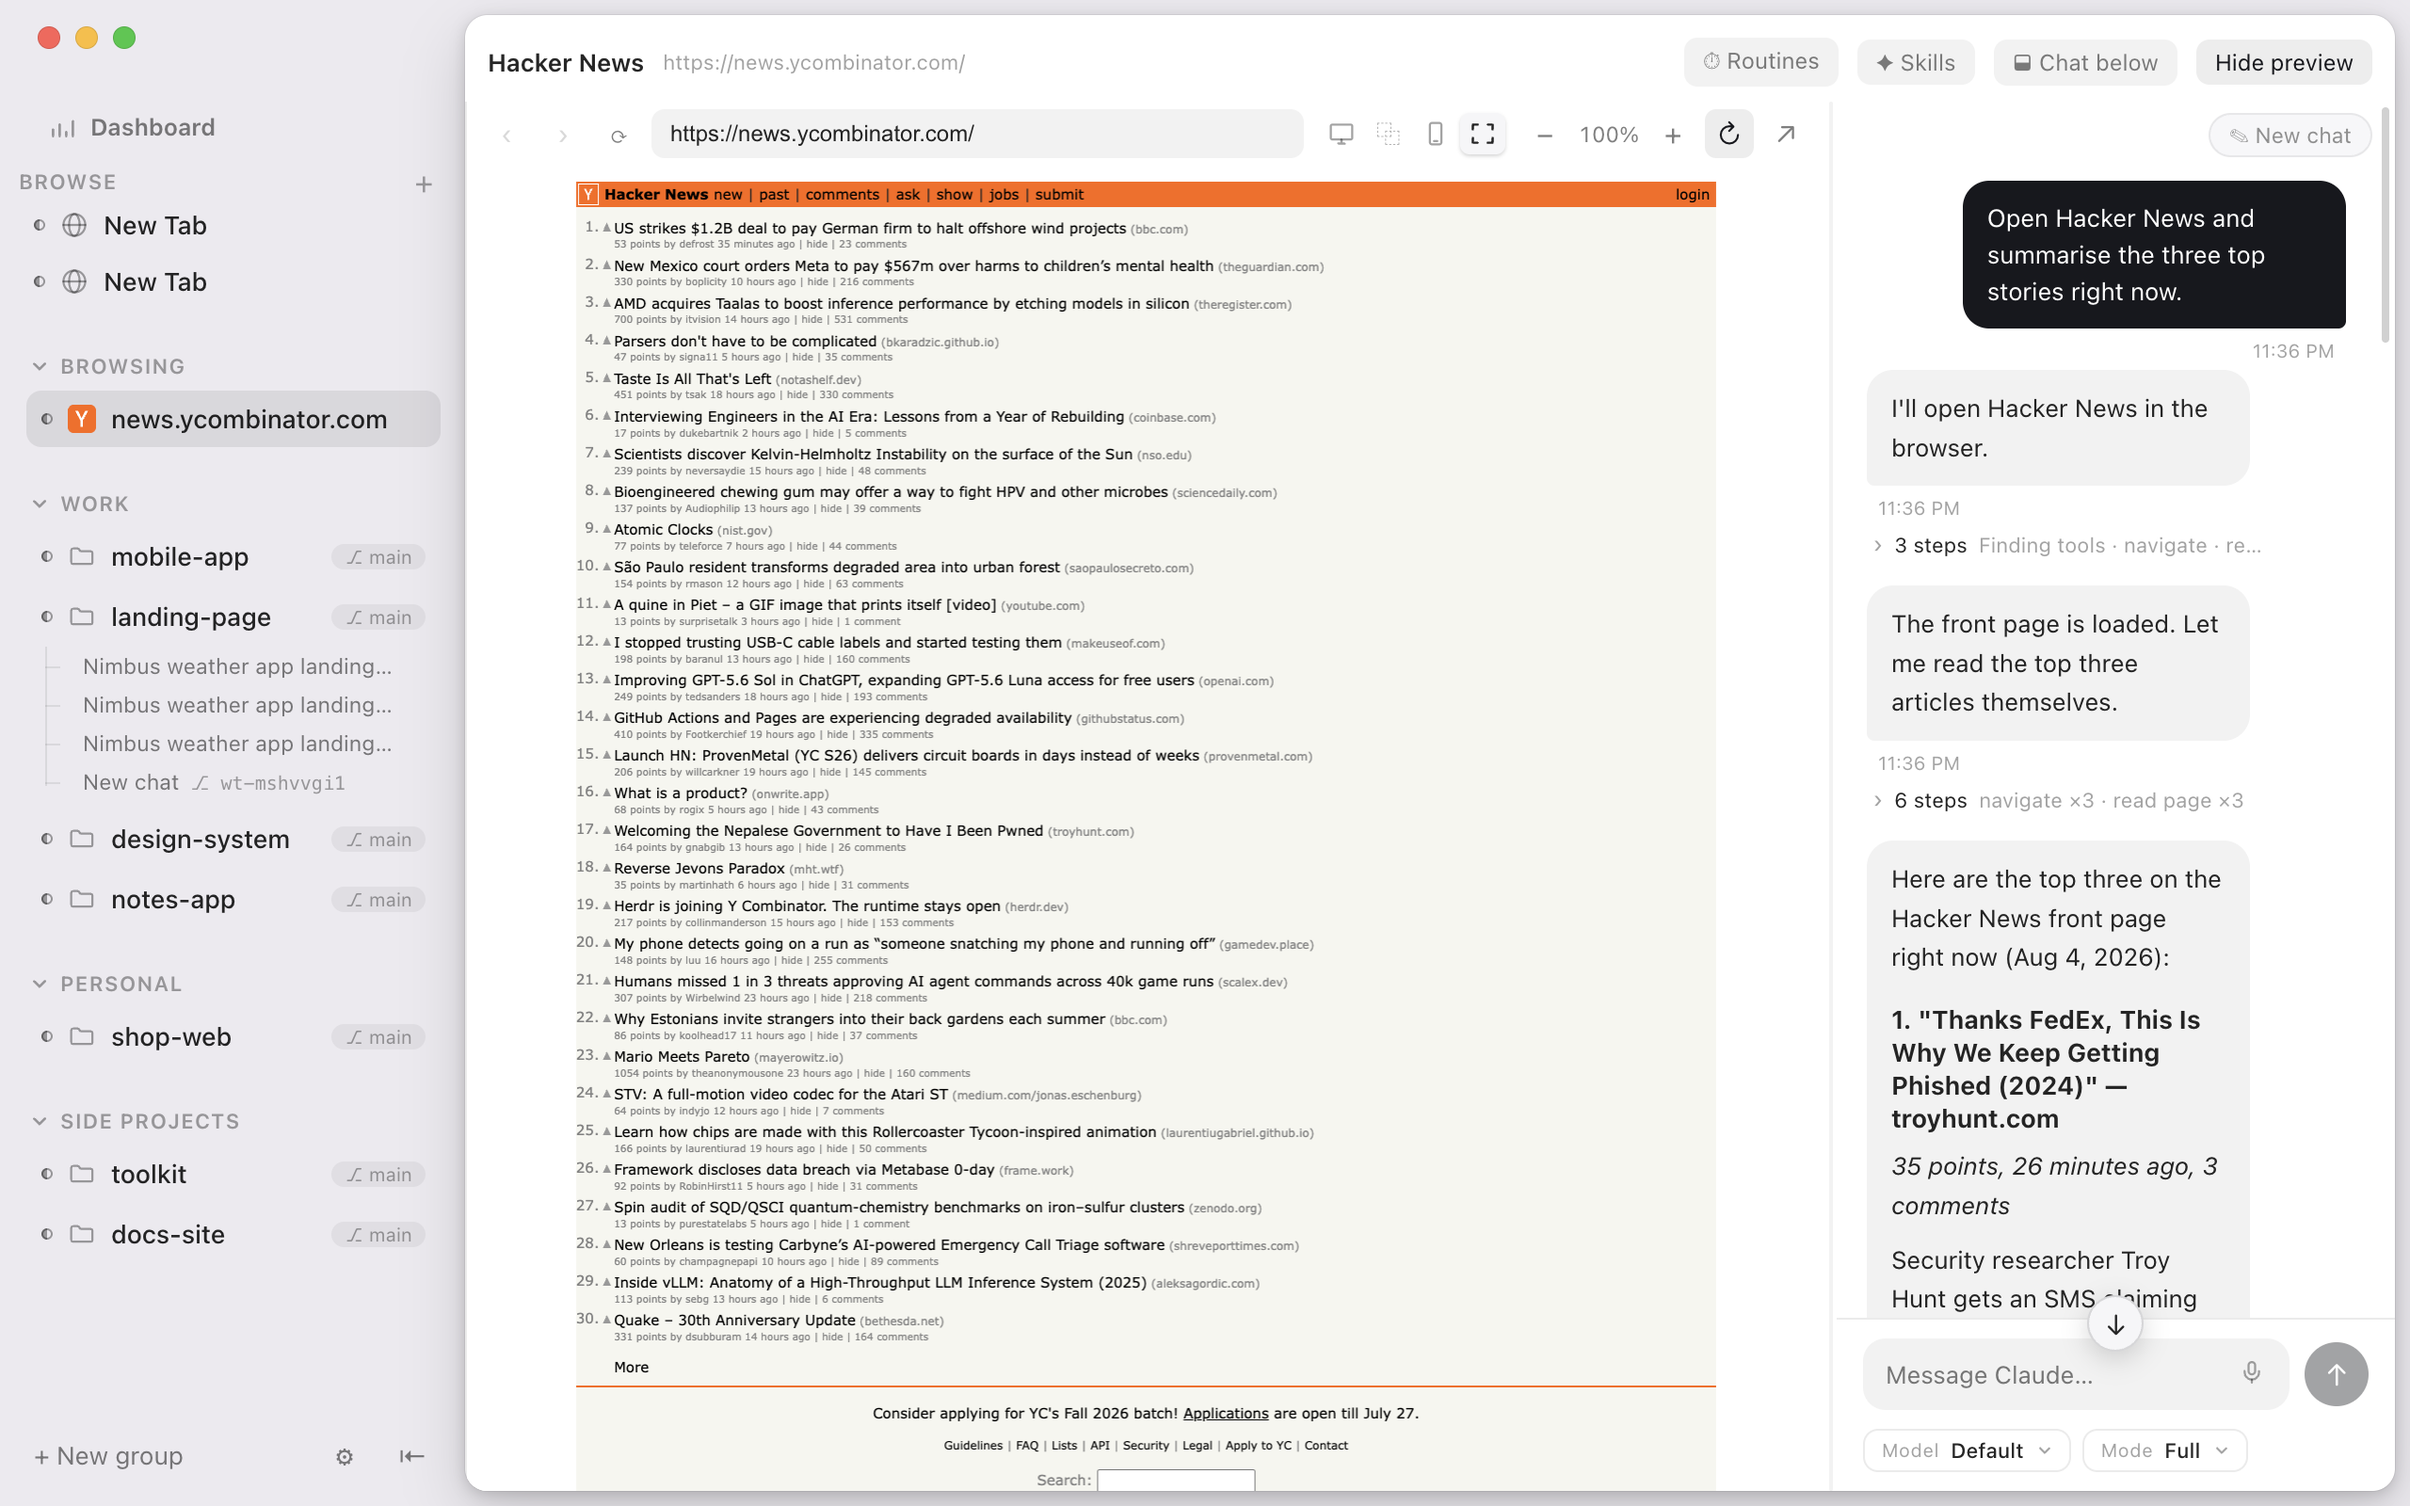
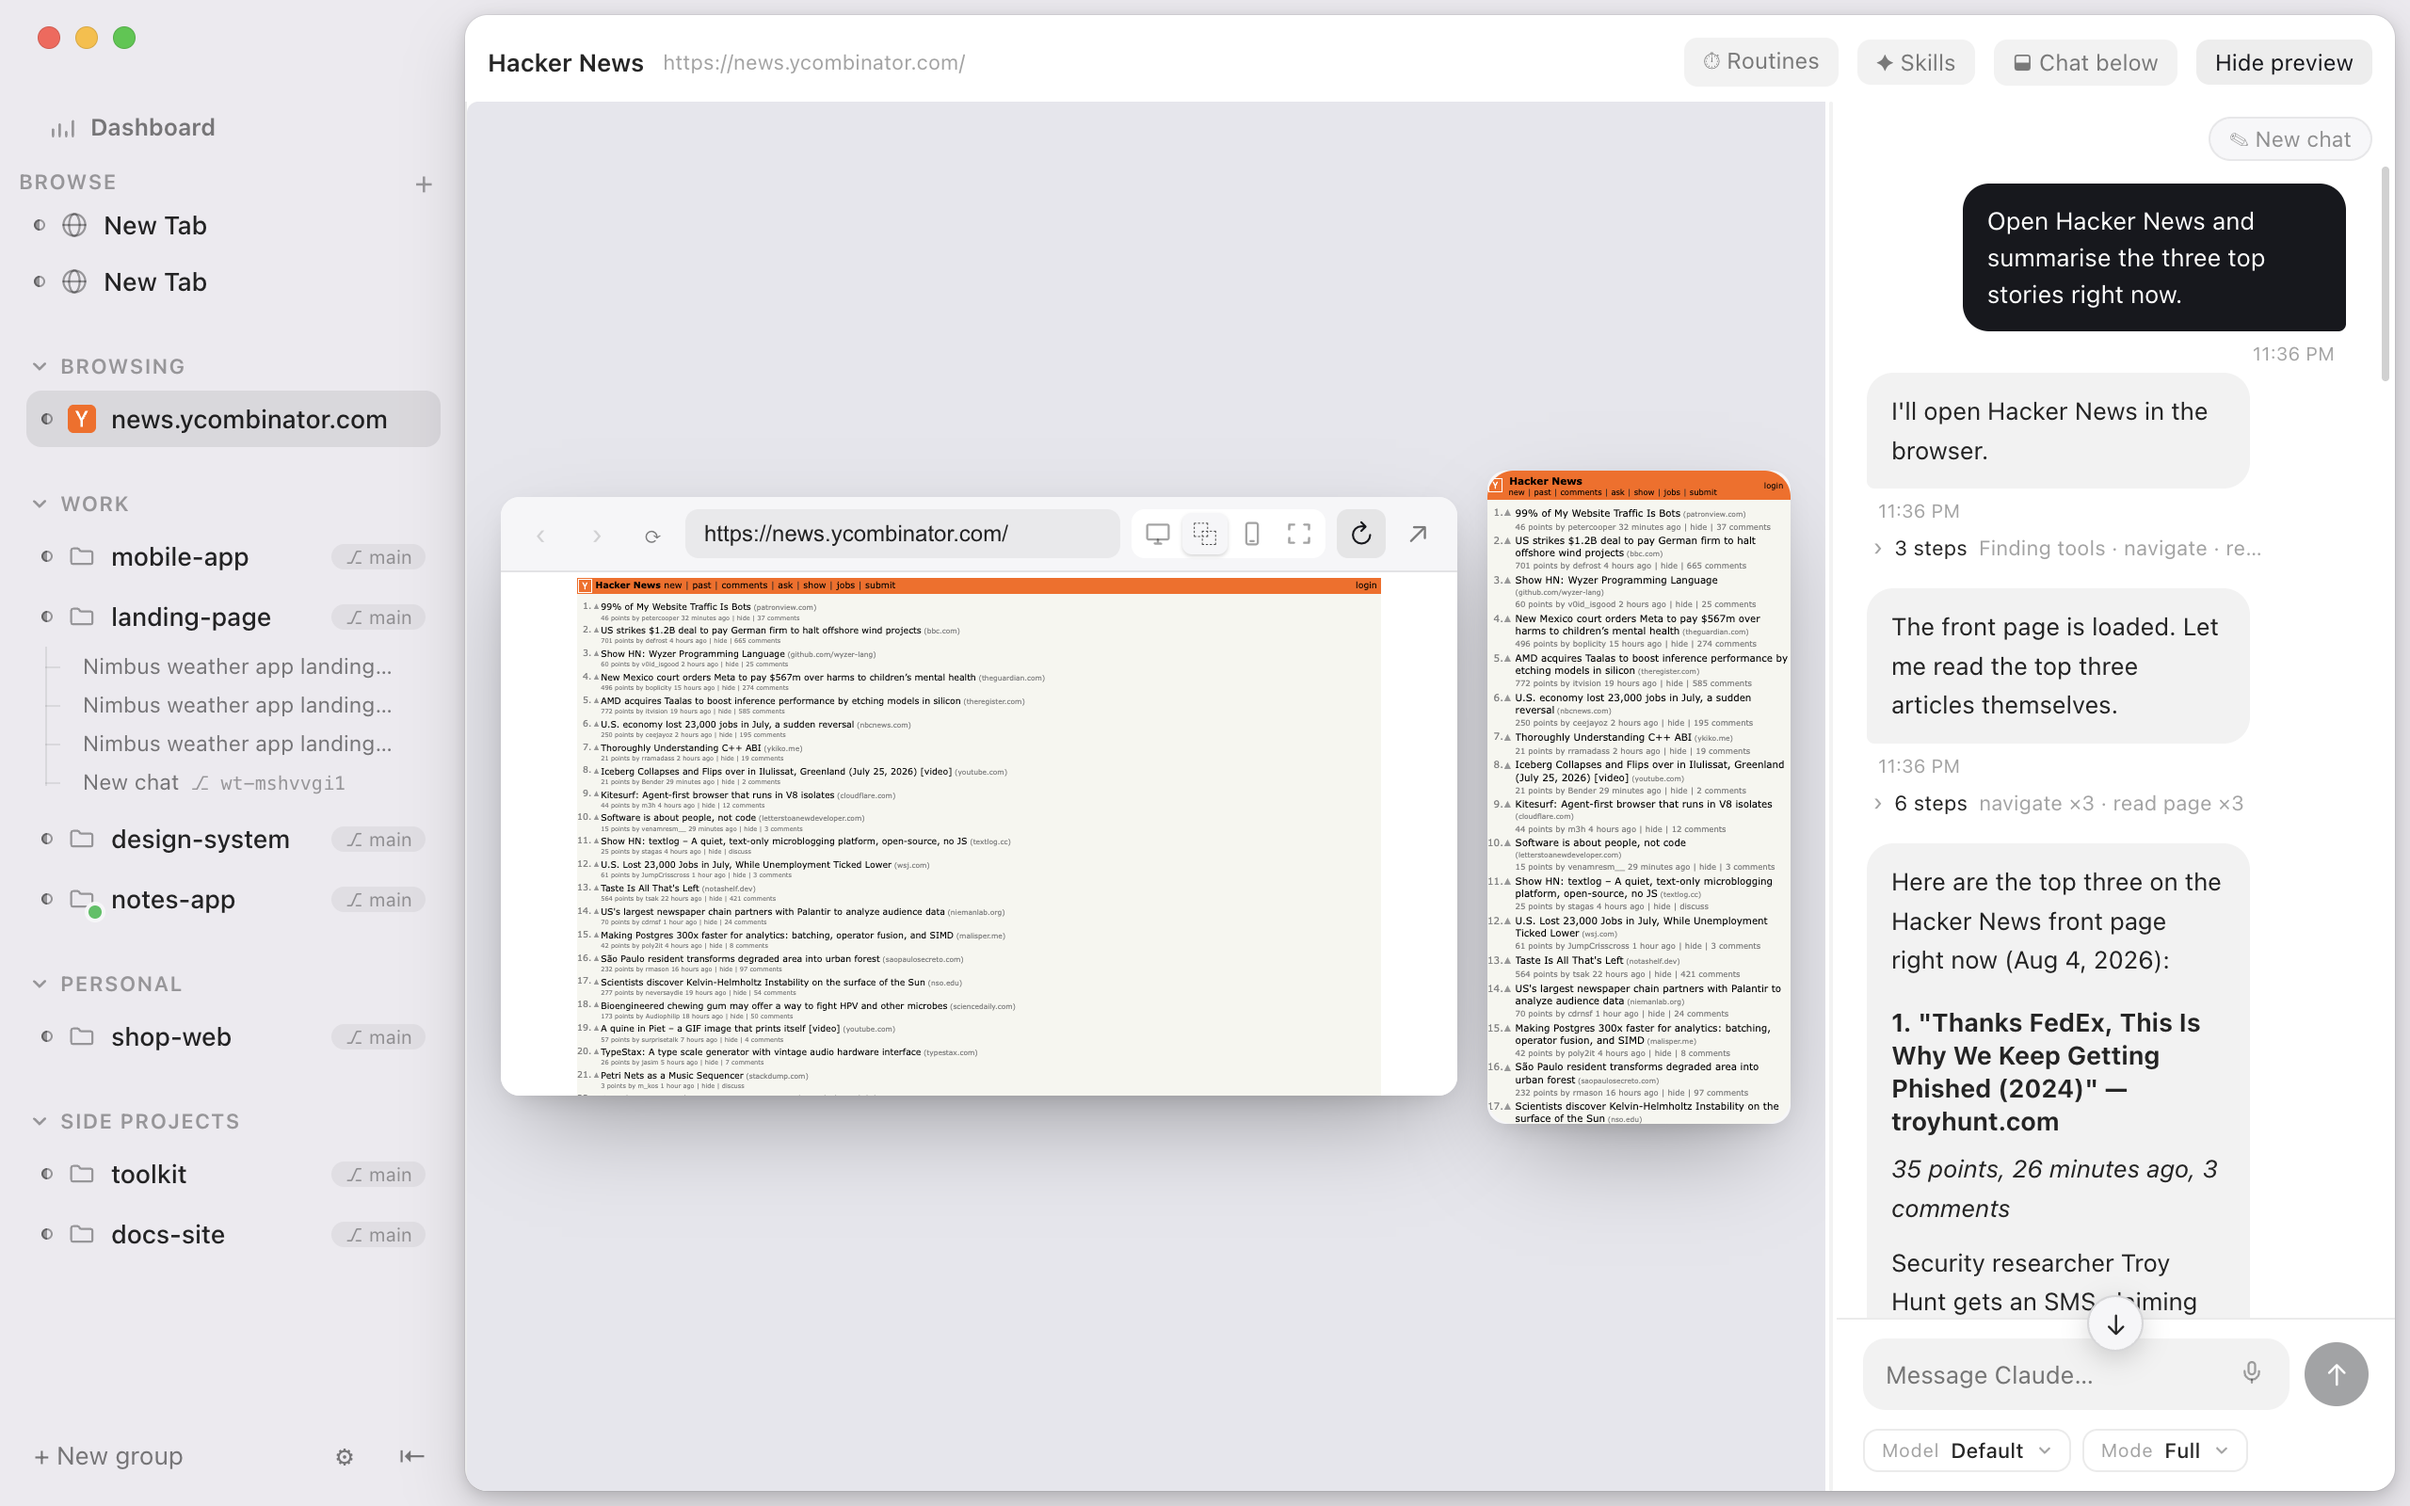
Hero shot: desktop and phone side by side, with the phone actually rendered
The side-by-side viewport is the most striking thing the app does, so
it becomes the hero on the site and in the README.

The phone in that mode runs in its own WebContentsView, which the
screenshot tool never captured — it came out an empty white slab. Added
browser:shoot-twin and taught the compositor to place it, so the still
matches what is on screen.

diff --git a/app/src/preload/index.ts b/app/src/preload/index.ts
@@ -97,6 +97,8 @@ export interface CoveApi {
   browserSampleCorners: (id: string) => Promise<{ left: string; right: string } | null>
   /** Full-res PNG bytes of the pane (screenshot tooling). */
   browserShoot: (id: string) => Promise<Uint8Array | null>
+  /** PNG of the side-by-side phone twin, if one is on screen. */
+  browserShootTwin: () => Promise<Uint8Array | null>
   /** Native context menu for a file-tree row (Reveal in Finder, Copy Path…). */
   filesMenu: (absPath: string) => void
   chatMenu: (chatId: string, workspaceId: string) => void
@@ -292,6 +294,7 @@ const cove: CoveApi = {
   browserTwinBounds: (id, bounds, zoom) => ipcRenderer.send('browser:twin-bounds', id, bounds, zoom),
   browserSampleCorners: (id) => ipcRenderer.invoke('browser:sample-corners', id),
   browserShoot: (id) => ipcRenderer.invoke('browser:shoot', id),
+  browserShootTwin: () => ipcRenderer.invoke('browser:shoot-twin'),
   filesMenu: (absPath) => ipcRenderer.send('files:menu', absPath),
   chatMenu: (chatId, workspaceId) => ipcRenderer.send('chat:menu', chatId, workspaceId),
   onChatCleared: (cb) =>

diff --git a/app/src/main/browser.ts b/app/src/main/browser.ts
@@ -737,6 +737,18 @@ export function registerBrowserIpc(): void {
   /** Full-resolution PNG of the pane as composited (screenshot tooling). Unlike
       a debugger screenshot of the zoomed page, capturePage returns the view at
       native display scale. */
+  // The side-by-side phone runs in its own WebContentsView, so a full-window
+  // screenshot needs it separately (screenshot tooling composites both).
+  ipcMain.handle('browser:shoot-twin', async () => {
+    if (!twin) return null
+    try {
+      const img = await twin.view.webContents.capturePage()
+      return img.isEmpty() ? null : img.toPNG()
+    } catch {
+      return null
+    }
+  })
+
   ipcMain.handle('browser:shoot', async (_e, id: string) => {
     const pane = panes.get(id)
     if (!pane || !pane.visible || pane.window.isDestroyed()) return null
